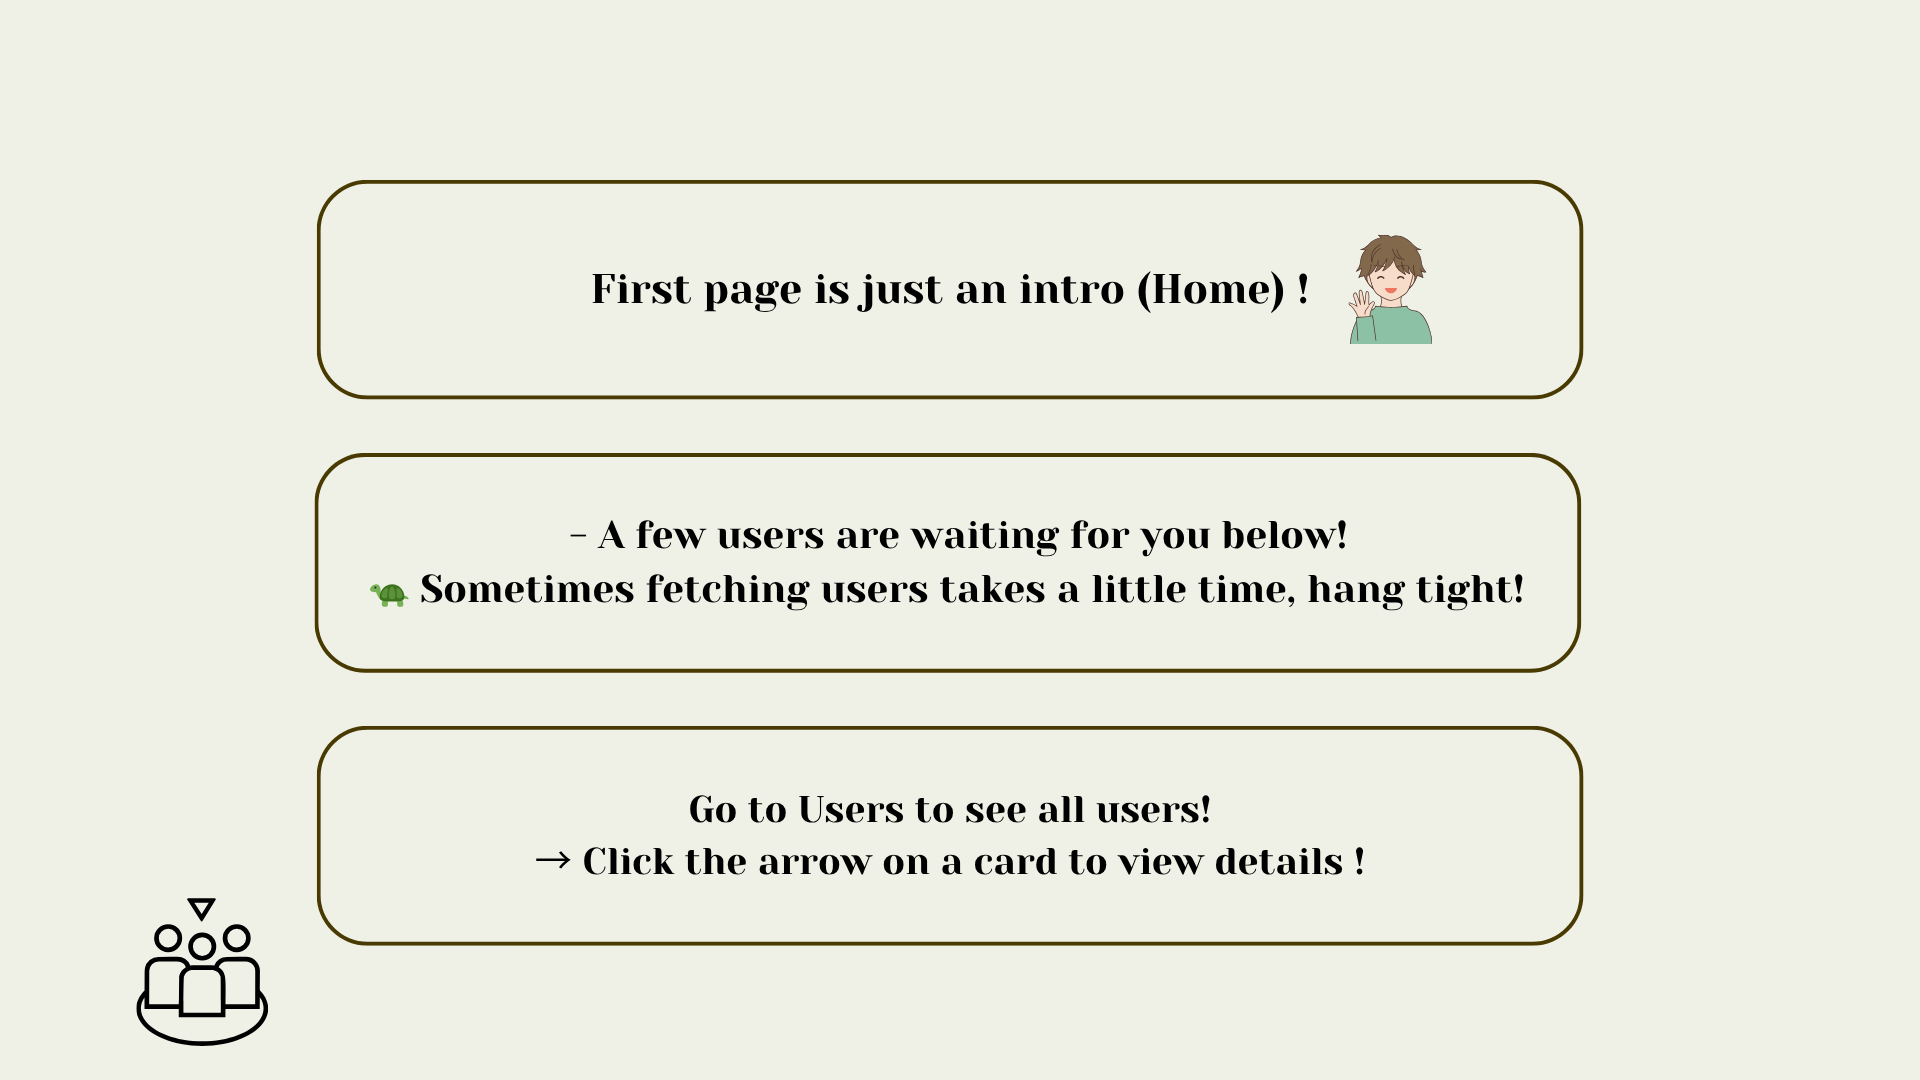
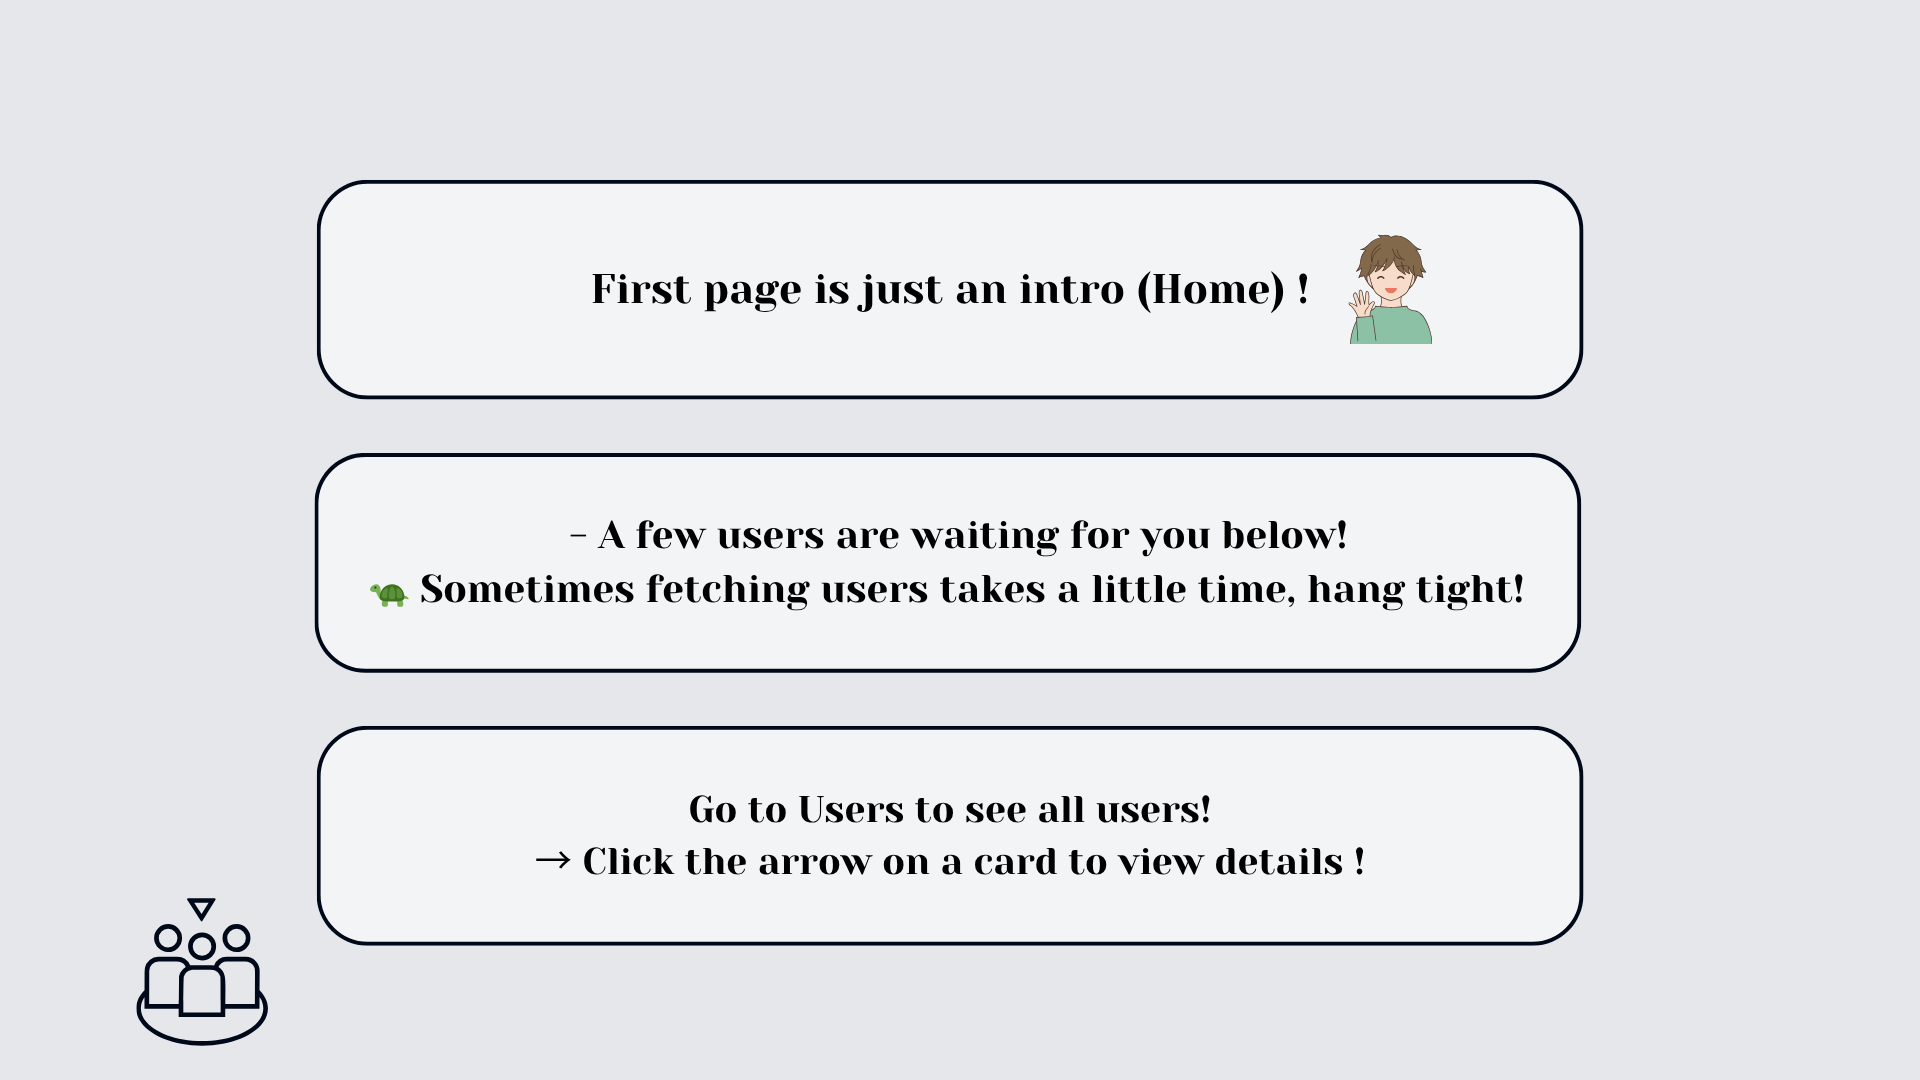
changed the design a little bit

diff --git a/src/pages/AddUser.js b/src/pages/AddUser.js
@@ -109,7 +109,7 @@ const handleSubmit = (e) => {
     <div className="min-h-screen flex items-center justify-center bg-gray-100 p-6 font-serif">
       <div className="bg-white rounded-lg shadow-lg p-8 max-w-2xl w-full">
         <div className="flex justify-between items-center mb-8">
-          <h1 className="text-3xl font-bold text-[#3a4920] border-b-2 border-gray-200 pb-2">
+          <h1 className="text-3xl font-bold text-[#000919] border-b-2 border-gray-200 pb-2">
             Add New User
           </h1>
           <Link
@@ -122,7 +122,7 @@ const handleSubmit = (e) => {
 
         <form onSubmit={handleSubmit} className="space-y-6">
           <div className="border-b border-gray-200 pb-4">
-            <h2 className="text-xl font-semibold text-[#3a4920] mb-4">Personal Information</h2>
+            <h2 className="text-xl font-semibold text-[#000919] mb-4">Personal Information</h2>
             <div className="space-y-4">
               <div>
                 <label className="block text-gray-600 font-medium mb-1" htmlFor="name">
@@ -182,7 +182,7 @@ const handleSubmit = (e) => {
           </div>
 
           <div>
-            <h2 className="text-xl font-semibold text-[#3a4920] mb-4">Address</h2>
+            <h2 className="text-xl font-semibold text-[#000919] mb-4">Address</h2>
             <div className="space-y-4">
               <div>
                 <label className="block text-gray-600 font-medium mb-1" htmlFor="address.street">
@@ -269,7 +269,7 @@ const handleSubmit = (e) => {
 
           <button
             type="submit"
-            className="w-full bg-[#3a4920] text-white font-semibold py-2 rounded-md hover:bg-[#2d3818] transition"
+            className="w-full bg-gray-600 text-white font-semibold py-2 rounded-md hover:bg-[#000919] transition"
           >
             Add User
           </button>
@@ -277,7 +277,7 @@ const handleSubmit = (e) => {
 
         {users.length > 0 && (
           <div className="mt-8">
-            <h2 className="text-xl font-semibold text-[#3a4920] mb-4">Added Users</h2>
+            <h2 className="text-xl font-semibold text-[#000919] mb-4">Added Users</h2>
             <ul className="space-y-4">
               {users.map((user) => (
                 <li key={user.id} className="border border-gray-200 rounded-md p-4">

diff --git a/src/components/Header.js b/src/components/Header.js
@@ -5,15 +5,18 @@ function Header() {
   const [menuOpen, setMenuOpen] = useState(false)
 
   return (
-    <header className="h-24 flex items-center bg-[#dce7c9] shadow-md">
+    //bg-[#dce7c9] 
+    //text inside span : //text-[#3a4920]
+    <header className="h-24 flex items-center bg-[#000919] shadow-md">
       <div className="container mx-auto flex items-center justify-between px-4">
-        <span className="text-2xl sm:text-3xl text-[#3a4920] flex items-center gap-2">
+        
+        <span className="text-2xl sm:text-3xl text-gray-200 flex items-center gap-2"> 
           <i className="fa-solid fa-users-rectangle"></i><b>UserManagement</b> 
         </span>
 
         {/* Hamburger button: only for the small screens*/}
         <button
-          className="block sm:hidden p-2 text-gray-700 border rounded"
+          className="block sm:hidden p-2 text-gray-200 rounded"
           onClick={() => setMenuOpen(!menuOpen)}
         >
           <i className="fa-solid fa-bars"></i> {}
@@ -23,15 +26,15 @@ function Header() {
         <nav
           className={`${
             menuOpen ? "flex" : "hidden"
-          } flex-col sm:flex sm:flex-row gap-4 absolute sm:static top-24 left-0 w-full sm:w-auto bg-[#dce7c9] sm:bg-transparent p-4 sm:p-0 z-50`}
+          } flex-col sm:flex sm:flex-row gap-4 absolute sm:static top-24 left-0 w-full sm:w-auto bg-[#000919] text-gray-200 sm:bg-transparent p-4 sm:p-0 z-50`}
         >
-          <Link to="/" className="hover:text-[#3a4920]" onClick={() => setMenuOpen(false)}>
+          <Link to="/" className="hover:text-white" onClick={() => setMenuOpen(false)}>
             Home
           </Link>
-          <Link to="/users" className="hover:text-[#3a4920]" onClick={() => setMenuOpen(false)}>
+          <Link to="/users" className="hover:text-white" onClick={() => setMenuOpen(false)}>
             Users
           </Link>
-          <Link to="/adduser" className="hover:text-[#3a4920]" onClick={() => setMenuOpen(false)}>
+          <Link to="/adduser" className="hover:text-white" onClick={() => setMenuOpen(false)}>
             Add User
           </Link>
         </nav>

diff --git a/src/components/Slider.js b/src/components/Slider.js
@@ -25,25 +25,25 @@ function Slider() {
     };
 
     return (
-            <div className="relative w-full max-w-5xl mx-auto overflow-hidden rounded-2xl shadow-lg my-12">
+            <div className="relative w-full max-w-5xl mx-auto overflow-hidden rounded-2xl shadow-lg my-12 ">
                 <img src={images[current]}
                 alt="slider"
-                className="w-full h-full object-cover object-center transition-all duration-2000 ease-in-out"/>
+                className="w-full h-full object-cover object-center transition-all duration-4000 ease-in-out"/>
 
                 <button onClick={prevSlide}
-                className="absolute top-1/2 left-4 -translate-y-1/2 bg-gray-300 text-[#3a4920] rounded-full w-10 h-10 flex items-center justify-center hover:bg-[#3a4920] hover:text-white">
+                className="absolute top-1/2 left-4 -translate-y-1/2 bg-gray-300 text-[#000919] rounded-full w-10 h-10 flex items-center justify-center hover:bg-[#000919] hover:text-white">
                     ←
                 </button>
 
                 <button onClick={nextSlide}
-                className="absolute top-1/2 right-4 -translate-y-1/2 bg-gray-300 text-[#3a4920] rounded-full w-10 h-10 flex items-center justify-center hover:bg-[#3a4920] hover:text-white">
+                className="absolute top-1/2 right-4 -translate-y-1/2 bg-gray-300 text-[#000919] rounded-full w-10 h-10 flex items-center justify-center hover:bg-[#000919] hover:text-white">
                     →
                 </button>
 
                 <div className="absolute bottom-4 left-1/2 -translate-x-1/2 flex space-x-2">
                 {images.map((_, index) => (
                     <span key={index} onClick={() => setCurrent(index)}
-                    className={`w-3 h-3 rounded-full cursor-pointer ${current === index ? "bg-[#3a4920]" : "bg-gray-400"}`}></span>
+                    className={`w-3 h-3 rounded-full cursor-pointer ${current === index ? "bg-[#000919]" : "bg-gray-400"}`}></span>
                 ))}
 
                 </div>

diff --git a/src/components/Card.js b/src/components/Card.js
@@ -4,16 +4,16 @@ import { Link } from 'react-router-dom';
 
 function Card({ id, name, email, company }) {
   return (
-    <div className="bg-gray-50 border border-gray-200 rounded-lg p-6 shadow-sm hover:shadow-md hover:bg-gray-100 hover:border-[#dce7c9] transition duration-200 transform hover:scale-105 font-serif">
+    <div className="bg-gray-100 border border-gray-200 rounded-lg p-6 shadow-sm hover:shadow-md hover:bg-gray-200 hover:border-gray-300 transition duration-200 transform hover:scale-105 font-serif">
       <div className="flex items-center justify-between">
         <div>
-          <h3 className="text-lg font-semibold text-[#3a4920]">{name}</h3>
+          <h3 className="text-lg font-semibold text-[#000919]">{name}</h3>
           <h4 className="text-sm text-gray-700">{email}</h4>
           <h4 className="text-sm text-gray-600">{company?.name || 'N/A'}</h4>
         </div>
         <Link
           to={`/users/${id}`}
-          className="w-8 h-8 flex items-center justify-center rounded-full border border-gray-300 text-gray-600 hover:border-[#3a4920] hover:bg-[#dce7c9] hover:text-[#3a4920] transition"
+          className="w-8 h-8 flex items-center justify-center rounded-full border border-gray-300 text-gray-600 hover:border-[#000919] hover:bg-[#000919] hover:text-white transition"
         >
           <i className="fa-solid fa-arrow-right"></i>
         </Link>

diff --git a/src/pages/Home.js b/src/pages/Home.js
@@ -24,9 +24,9 @@ function Home() {
   return (
     <>
     <Slider/>
-    <section className="py-20 bg-gray-100">
+    <section className="py-20 bg-gray-200">
   <div className="container mx-auto px-4">
-    <h2 className="text-3xl text-center font-semibold text-[#3a4920]">Some Users</h2>
+    <h2 className="text-3xl text-center font-semibold text-[#000919]">Some Users</h2>
 
     <div id="latest-users" className="flex flex-wrap justify-center gap-6 my-6">
     {users && users.map(user => (
@@ -36,7 +36,7 @@ function Home() {
       )}
     </div>
 
-    <Link className="w-48 block mx-auto text-center py-2 border border-[#3a4920] text-[#3a4920] font-semibold rounded hover:bg-[#3a4920] hover:text-white transition" to="/users">
+    <Link className="w-48 block mx-auto text-center py-2 border border-[#000919] text-[#000919] font-semibold rounded hover:bg-[#000919] hover:text-white transition" to="/users">
       See more <i class="fa-solid fa-arrow-right"></i>
     </Link>
   </div>

diff --git a/src/pages/Users.js b/src/pages/Users.js
@@ -46,7 +46,7 @@ function Users() {
             <div className="container mx-auto">
                 <div className="flex flex-col sm:flex-row justify-center sm:justify-between items-start sm:items-center mb-6 gap-4">
                     <div className="flex w-full sm:w-auto gap-2 items-center">
-                        <input type="search" placeholder="Search by name or email" className="flex-1 min-w-[220px] sm:w-[300px] border border-[#3a4920] px-4 py-2 rounded" value={search} onChange={(e) => setSearch(e.target.value)}/>
+                        <input type="search" placeholder="Search by name or email" className="flex-1 min-w-[220px] sm:w-[300px] border border-[#000919] px-4 py-2 rounded" value={search} onChange={(e) => setSearch(e.target.value)}/>
                         <button onClick={() => setSearch("")} className="underline whitespace-nowrap">Clear</button>
                     </div>
                     <button

diff --git a/src/components/Footer.js b/src/components/Footer.js
@@ -2,10 +2,11 @@ import React from 'react'
 
 function Footer() {
   return (
-    <footer className="bg-[#dce7c9]">
+    //bg-[#dce7c9]
+    <footer className="bg-[#000919]">
         <div className="container mx-auto h-16 flex flex-col sm:flex-row justify-between items-center">
-            <p className="text-[#3a4920]">Copyrights © UserManagement, 2025</p>
-            <p className="text-[#3a4920]">Xhesika Mula</p>
+            <p className="text-gray-200">Copyrights © UserManagement, 2025</p>
+            <p className="text-gray-200">Xhesika Mula</p>
         </div>
     </footer>
   )

diff --git a/src/pages/UserDetails.js b/src/pages/UserDetails.js
@@ -54,7 +54,7 @@ function UserDetails() {
   return (
     <div className="min-h-screen flex items-center justify-center bg-gray-100 p-6 font-serif">
       <div className="bg-white rounded-lg shadow-lg p-8 max-w-2xl w-full">
-        <h1 className="text-3xl font-bold text-[#3a4920] mb-8 border-b-2 border-gray-200 pb-2">
+        <h1 className="text-3xl font-bold text-[#000919] mb-8 border-b-2 border-gray-200 pb-2">
           User Profile
         </h1>
 

diff --git a/public/index.html b/public/index.html
@@ -25,7 +25,7 @@
       work correctly both with client-side routing and a non-root public URL.
       Learn how to configure a non-root public URL by running `npm run build`.
     -->
-    <title>React App</title>
+    <title>User Management App</title>
   </head>
   <body>
     <noscript>You need to enable JavaScript to run this app.</noscript>
